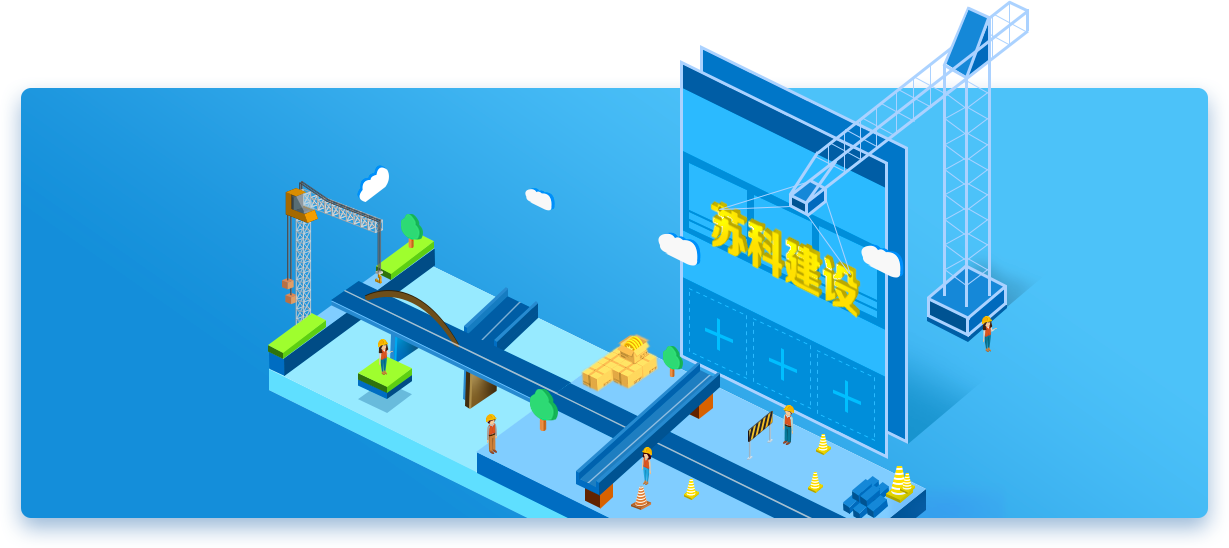
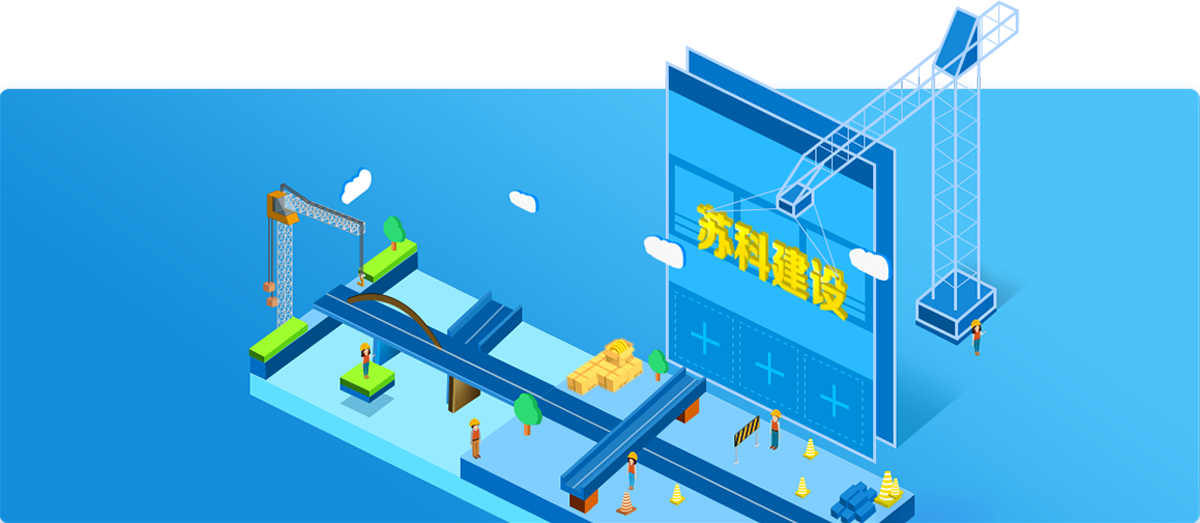
案例页面-样式更新

Changed region(s): [[0.0, 0.0, 1.0, 1.0], [0.4008, 0.3365, 0.4625, 0.4283]]

diff --git a/case.html b/case.html
@@ -7,7 +7,7 @@
     <meta name="screen-orientation" content="portrait"/><!–uc强制竖屏–>
     <meta name="x5-orientation" content="portrait"><!–QQ强制竖屏–>
     <meta name="viewport" content="width=device-width,initial-scale=1.0,maximum-scale=1.0,user-scalable=1.0">
-    <title>迅傲科技-案例-APP开发|网站定制开发|微信开发</title>
+    <title>迅傲科技-案例展示-APP开发|网站定制开发|微信开发</title>
     <meta name="Keywords" content="app开发，微信开发，网站开发，IOS（苹果）开发,Android（安卓）开发，html5开发，软件外包，移动应用开发"/>
     <meta name="Description" content="上海迅傲成立2008年，专注于互联网和移动互联的技术外包服务，提供微信平台开发外包，移动应用app开发外包（含ios和安卓），网站定制外包。"/>
     <link rel="stylesheet" href="css/bootstrap.min.css"/>
@@ -24,7 +24,7 @@
         <nav class="mHidden">
             <ul>
                 <li class="active font18"><a class="color_333" href="index.html">首页</a></li>
-                <li class="font18"><a class="color_333" href="">案例</a></li>
+                <li class="font18"><a class="color_333" href="case.html">案例</a></li>
                 <li class="font18"><a class="color_333" href="service.html">服务</a></li>
                 <li class="font18"><a class="color_333" href="">方案</a></li>
                 <li class="font18"><a class="color_333" href="">合作</a></li>
@@ -39,7 +39,7 @@
 <nav class="phoneMenu mShow pHidden">
     <ul class="menu_link">
         <li class="active font18" ><a class="color_fff" href="index.html">首页</a></li>
-        <li class="font18"><a class="color_fff" href="">案例</a></li>
+        <li class="font18"><a class="color_fff" href="case.html">案例</a></li>
         <li class="font18"><a class="color_fff" href="service.html">服务</a></li>
         <li class="font18"><a class="color_fff" href="">方案</a></li>
         <li class="font18"><a class="color_fff" href="">合作</a></li>
@@ -47,7 +47,7 @@
     </ul>
 </nav>
 <div class="main" style="">
-    <div class="col-lg-12 md col-sm-12 col-xs-12 tabWrap" style="">
+    <div class="tabWrap" style="">
         <ul class="tabBtn">
             <li class="active">全部案例</li>
             <li>APP</li>
@@ -55,14 +55,15 @@
             <li>其他</li>
         </ul>
     </div>
-
-    <img src="images/caseBanner.png" alt="" style="width: 1242px;margin-left: -21px;margin-top: -88px;">
+    <div class="caseBanner">
+        <img src="images/caseBanner.png" alt=""/>
+    </div>
     <ul class="caseList">
         <li class="col-lg-4 col-md-4 col-sm-4 col-xs-6 lg-first xs-first">
             <a href="">
                 <img src="images/case1.png" alt=""/>
                 <div class="des">
-                    <div style="float: left;width: 58%;">
+                    <div style="float: left;width: 85%;">
                         <h3 class="font18 color_333">监理云系统</h3>
                         <p class="font14 color_333">用户体验设计、app开发</p>
                     </div>
@@ -86,7 +87,7 @@
             <a href="">
                 <img src="images/case3.png" alt=""/>
                 <div class="des">
-                    <div style="float: left;width: 58%;">
+                    <div style="float: left;width: 85%;">
                         <h3 class="font18 color_333">监理云系统</h3>
                         <p class="font14 color_333">用户体验设计、app开发</p>
                     </div>
@@ -98,7 +99,7 @@
             <a href="">
                 <img src="images/case4.png" alt=""/>
                 <div class="des">
-                    <div style="float: left;width: 58%;">
+                    <div style="float: left;width: 85%;">
                         <h3 class="font18 color_333">监理云系统</h3>
                         <p class="font14 color_333">用户体验设计、app开发</p>
                     </div>
@@ -122,7 +123,7 @@
             <a href="">
                 <img src="images/case7.png" alt=""/>
                 <div class="des">
-                    <div style="float: left;width: 58%;">
+                    <div style="float: left;width: 85%;">
                         <h3 class="font18 color_333">监理云系统</h3>
                         <p class="font14 color_333">用户体验设计、app开发</p>
                     </div>

diff --git a/css/case.css b/css/case.css
@@ -1,10 +1,17 @@
 body{background-color: #edeeee;}
 header{background-color: #fff;}
-.tabWrap{height: 187px;overflow: auto;padding: 83px 0 0;}
-ul.tabBtn{padding: 30px 0;height:104px;margin-bottom: 0;position: relative;z-index: 999;float: left;margin-right: -999em;}
+.tabWrap{width: 100%;height: 187px;overflow: auto;padding: 83px 0 0;}
+ul.tabBtn{padding: 30px 0;height:104px;margin-bottom: 0;position: relative;z-index: 90;float: left;margin-right: -999em;}
 .tabBtn li{background-color: #fff;width: 130px;height: 44px;float: left;margin-right: 16px;border-radius: 3px;font-size:16px;text-align: center;line-height: 44px;cursor: pointer;}
 .tabBtn li.active{background-color: #424242;color: #fff;font-weight: bold;}
 .tabBtn li:hover{background-color: #424242;color: #fff;font-weight: bold;}
+.caseBanner{padding: 0;margin-bottom: 30px;width: 100%;
+    -webkit-box-shadow:0 17px 35px rgba(0,79,153,0.39);
+    -moz-box-shadow:0 17px 35px rgba(0,79,153,0.39);
+    box-shadow:0 17px 35px rgba(0,79,153,0.39);
+}
+.caseBanner img{width: 100%;}
+
 ul.caseList{overflow: hidden;margin-bottom: 0;}
 ul.caseList li{padding: 0;margin-top: 20px;}
 ul.caseList li a>img{width: 100%;border-radius: 8px;}
@@ -18,11 +25,12 @@ ul.caseList li .des .imgWrap img{width: 100%;}
 
 
 @media screen and (max-width: 767px) {
-    .main>img{width: 100% !important;margin-top: 0 !important;margin-left: 0!important;}
     .tabWrap{height: 118px;overflow: auto;padding: 54px 0 0;}
     ul.tabBtn{padding: 10px 0;height: 64px;}
-    ul.caseList li.xs-first{padding-right:25px;}
-    ul.caseList li.xs-second{padding-left:25px;}
+    .caseBanner{margin-bottom: 0;/*padding: 0 5px;*/}
+    /*ul.caseList{padding: 0 5px;}*/
+    ul.caseList li.xs-first{padding-right:10px;}
+    ul.caseList li.xs-second{padding-left:10px;}
 }
 @media screen and (min-width:768px) and (max-width:991px) {
     ul.caseList li.lg-first{padding-right:34px;}
@@ -35,6 +43,7 @@ ul.caseList li .des .imgWrap img{width: 100%;}
     ul.caseList li.lg-third{padding-left:34px;}
 }
 @media screen and (min-width:1200px){
+    .main .caseBanner img{margin-top: -89px;}
     ul.caseList li.lg-first{padding-right:34px;}
     ul.caseList li.lg-second{padding:0 17px;}
     ul.caseList li.lg-third{padding-left:34px;}
